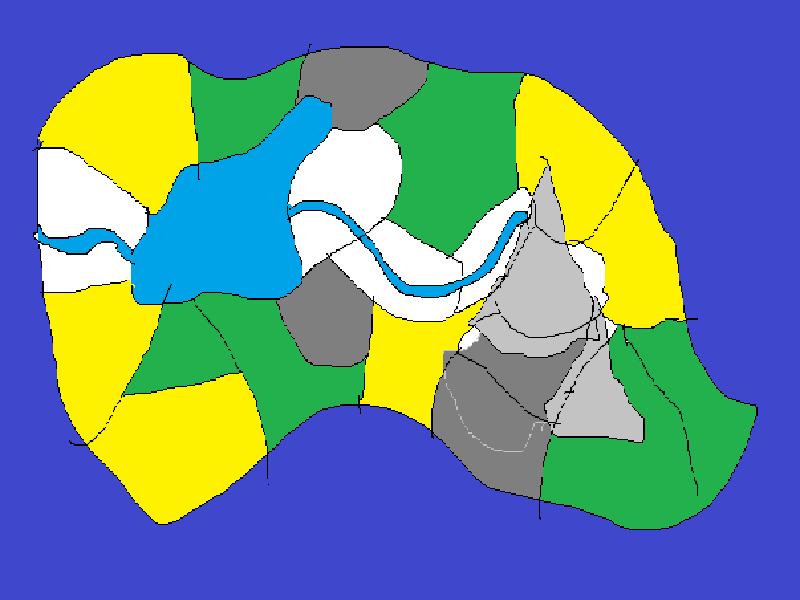
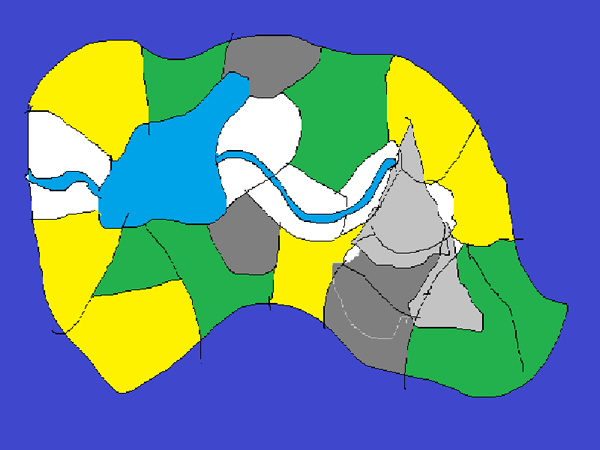
Updated size of AtlasFrame to a more reasonable one with the map graphic now 600x450.

diff --git a/AtlasFrame.java b/AtlasFrame.java
@@ -245,6 +245,7 @@ public class AtlasFrame extends javax.swing.JFrame {
 
         curResourceLabel.setText("Resource:");
 
+        curTerField.setEditable(false);
         curTerField.setText("origin");
         curTerField.addActionListener(new java.awt.event.ActionListener() {
             public void actionPerformed(java.awt.event.ActionEvent evt) {
@@ -252,8 +253,10 @@ public class AtlasFrame extends javax.swing.JFrame {
             }
         });
 
+        curTerrainField.setEditable(false);
         curTerrainField.setText("terrain");
 
+        curResourceField.setEditable(false);
         curResourceField.setText("resource");
 
         javax.swing.GroupLayout layout = new javax.swing.GroupLayout(getContentPane());
@@ -266,12 +269,23 @@ public class AtlasFrame extends javax.swing.JFrame {
                     .addGroup(layout.createSequentialGroup()
                         .addGroup(layout.createParallelGroup(javax.swing.GroupLayout.Alignment.LEADING)
                             .addComponent(jSeparatorH)
-                            .addComponent(updatesField)
-                            .addGroup(layout.createSequentialGroup()
-                                .addGroup(layout.createParallelGroup(javax.swing.GroupLayout.Alignment.LEADING)
-                                    .addComponent(jLabel2)
-                                    .addComponent(playerActionsLabel)
-                                    .addGroup(layout.createSequentialGroup()
+                            .addGroup(layout.createParallelGroup(javax.swing.GroupLayout.Alignment.LEADING)
+                                .addComponent(jLabel2)
+                                .addComponent(playerActionsLabel)
+                                .addGroup(layout.createSequentialGroup()
+                                    .addGroup(layout.createParallelGroup(javax.swing.GroupLayout.Alignment.TRAILING)
+                                        .addComponent(curTerLabel)
+                                        .addComponent(adjTerLabel)
+                                        .addComponent(curTerrainLabel)
+                                        .addComponent(curResourceLabel))
+                                    .addPreferredGap(javax.swing.LayoutStyle.ComponentPlacement.RELATED)
+                                    .addGroup(layout.createParallelGroup(javax.swing.GroupLayout.Alignment.LEADING, false)
+                                        .addComponent(curTerrainField)
+                                        .addComponent(curTerField)
+                                        .addComponent(curResourceField, javax.swing.GroupLayout.DEFAULT_SIZE, 63, Short.MAX_VALUE)))
+                                .addGroup(layout.createParallelGroup(javax.swing.GroupLayout.Alignment.TRAILING)
+                                    .addComponent(updatesField)
+                                    .addGroup(javax.swing.GroupLayout.Alignment.LEADING, layout.createSequentialGroup()
                                         .addComponent(jScrollPane1, javax.swing.GroupLayout.PREFERRED_SIZE, 99, javax.swing.GroupLayout.PREFERRED_SIZE)
                                         .addGap(18, 18, 18)
                                         .addGroup(layout.createParallelGroup(javax.swing.GroupLayout.Alignment.TRAILING)
@@ -281,22 +295,10 @@ public class AtlasFrame extends javax.swing.JFrame {
                                         .addGroup(layout.createParallelGroup(javax.swing.GroupLayout.Alignment.LEADING)
                                             .addComponent(terrainField, javax.swing.GroupLayout.PREFERRED_SIZE, 53, javax.swing.GroupLayout.PREFERRED_SIZE)
                                             .addComponent(resourceField, javax.swing.GroupLayout.PREFERRED_SIZE, 53, javax.swing.GroupLayout.PREFERRED_SIZE)
-                                            .addComponent(jToggleButton1, javax.swing.GroupLayout.PREFERRED_SIZE, 53, javax.swing.GroupLayout.PREFERRED_SIZE)))
-                                    .addGroup(layout.createSequentialGroup()
-                                        .addGroup(layout.createParallelGroup(javax.swing.GroupLayout.Alignment.TRAILING)
-                                            .addComponent(curTerLabel)
-                                            .addComponent(adjTerLabel)
-                                            .addComponent(curTerrainLabel)
-                                            .addComponent(curResourceLabel))
-                                        .addPreferredGap(javax.swing.LayoutStyle.ComponentPlacement.RELATED)
-                                        .addGroup(layout.createParallelGroup(javax.swing.GroupLayout.Alignment.LEADING, false)
-                                            .addComponent(curTerrainField)
-                                            .addComponent(curTerField)
-                                            .addComponent(curResourceField, javax.swing.GroupLayout.DEFAULT_SIZE, 63, Short.MAX_VALUE))))
-                                .addGap(0, 62, Short.MAX_VALUE)))
+                                            .addComponent(jToggleButton1, javax.swing.GroupLayout.PREFERRED_SIZE, 53, javax.swing.GroupLayout.PREFERRED_SIZE))))))
                         .addPreferredGap(javax.swing.LayoutStyle.ComponentPlacement.RELATED)
-                        .addComponent(mapLabel)
-                        .addGap(6, 6, 6))
+                        .addComponent(mapLabel, javax.swing.GroupLayout.PREFERRED_SIZE, 600, javax.swing.GroupLayout.PREFERRED_SIZE)
+                        .addContainerGap())
                     .addGroup(layout.createSequentialGroup()
                         .addGroup(layout.createParallelGroup(javax.swing.GroupLayout.Alignment.LEADING, false)
                             .addGroup(layout.createSequentialGroup()
@@ -399,10 +401,10 @@ public class AtlasFrame extends javax.swing.JFrame {
                             .addComponent(WeHPButton)
                             .addComponent(KnHPButton)
                             .addComponent(PoHPButton))
-                        .addGap(0, 5, Short.MAX_VALUE)))
+                        .addGap(0, 0, Short.MAX_VALUE)))
                 .addPreferredGap(javax.swing.LayoutStyle.ComponentPlacement.RELATED)
                 .addGroup(layout.createParallelGroup(javax.swing.GroupLayout.Alignment.LEADING, false)
-                    .addComponent(mapLabel)
+                    .addComponent(mapLabel, javax.swing.GroupLayout.PREFERRED_SIZE, 450, javax.swing.GroupLayout.PREFERRED_SIZE)
                     .addGroup(layout.createSequentialGroup()
                         .addComponent(jSeparatorH, javax.swing.GroupLayout.PREFERRED_SIZE, 10, javax.swing.GroupLayout.PREFERRED_SIZE)
                         .addPreferredGap(javax.swing.LayoutStyle.ComponentPlacement.RELATED)
